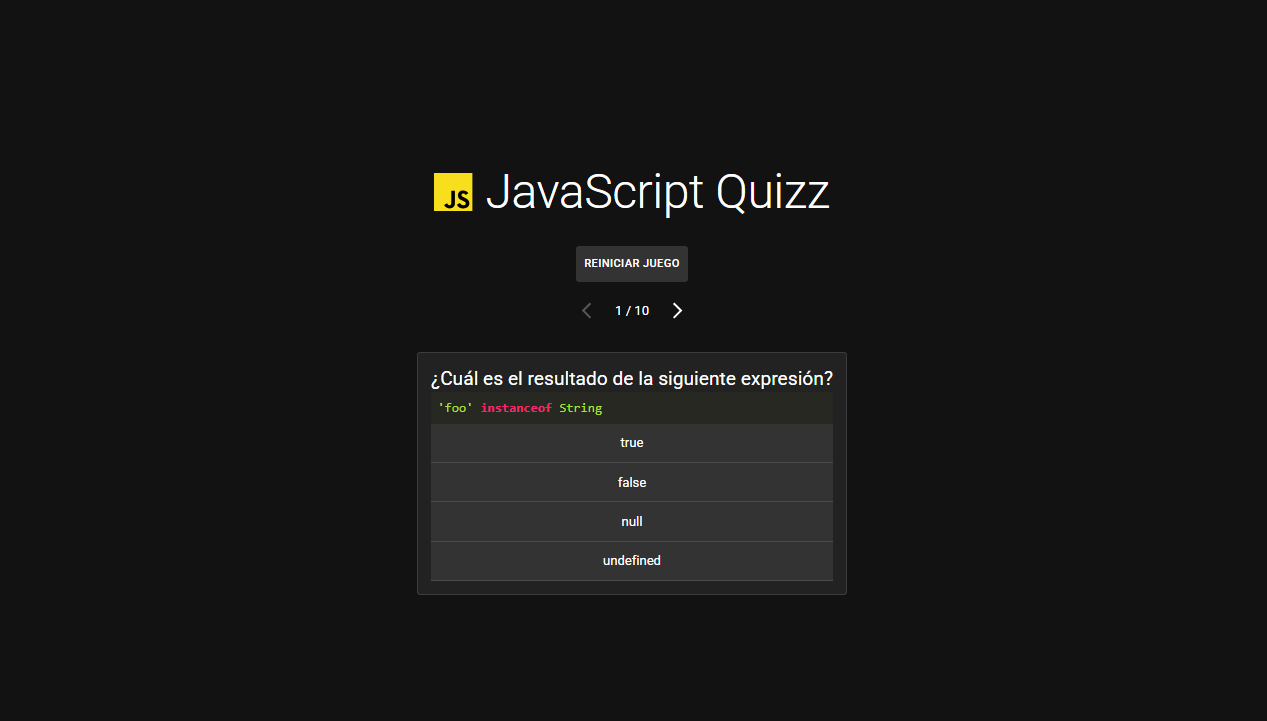
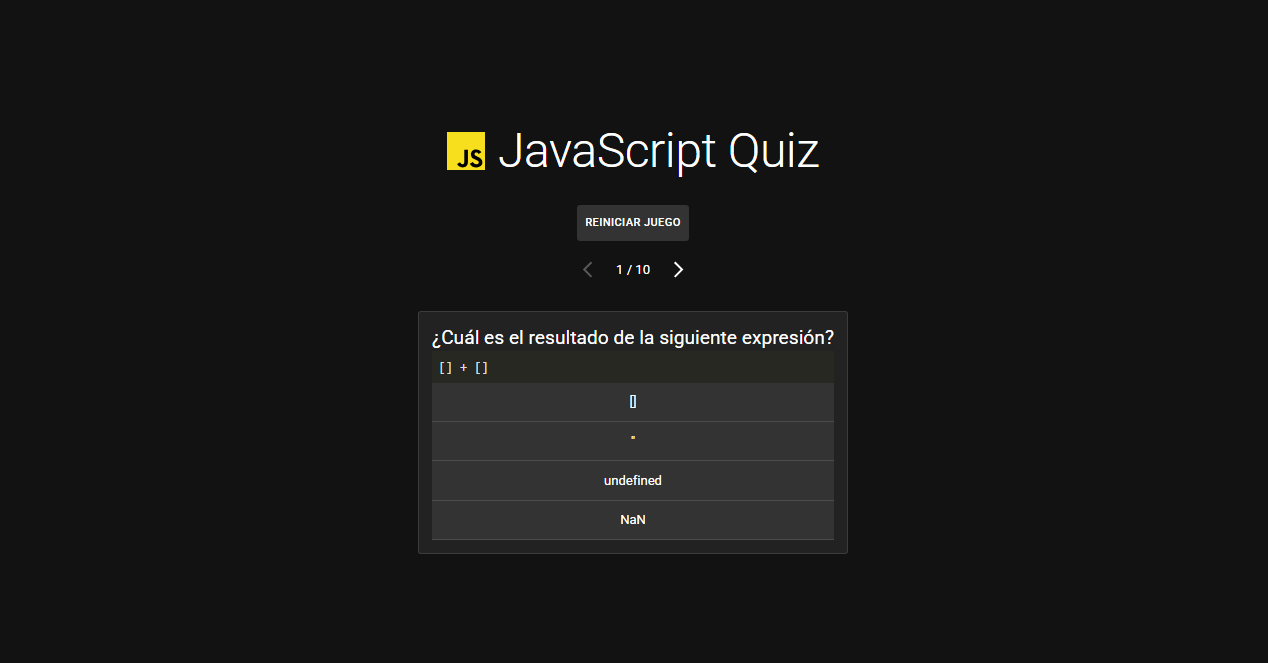
docs: actualizar screenshots y creditos en README.md

diff --git a/src/App.tsx b/src/App.tsx
@@ -22,7 +22,7 @@ function App() {
         >
           <JavaScriptLogo />
           <Typography variant="h2" component="h1">
-            JavaScript Quizz
+            JavaScript Quiz
           </Typography>
         </Stack>
 

diff --git a/README.md b/README.md
@@ -31,4 +31,4 @@ JS Quiz plantea una serie de preguntas con fragmentos de código JavaScript y cu
 
 ## Créditos
 
-Proyecto construido durante el curso de React de [midudev](https://www.youtube.com/@midudev), como parte de la práctica del [playlist de React](https://www.youtube.com/playlist?list=PLUofhDIg_38q4D0xNWp7FEHOTcZhjWJ29).
+Proyecto construido durante el curso de React de [midudev](https://github.com/midudev), siguiendo la práctica de la playlist [Curso de React](https://www.youtube.com/playlist?list=PLUofhDIg_38q4D0xNWp7FEHOTcZhjWJ29) en YouTube.
